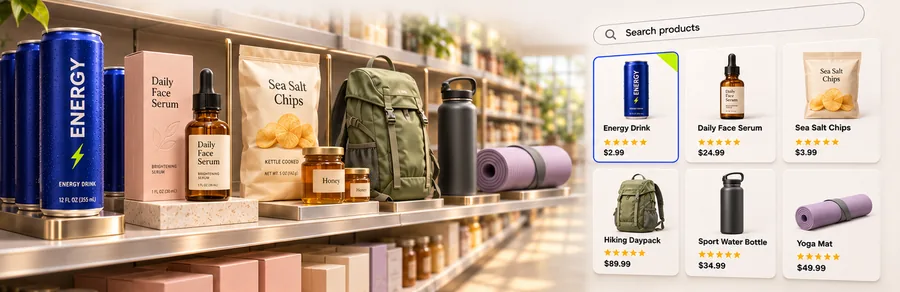
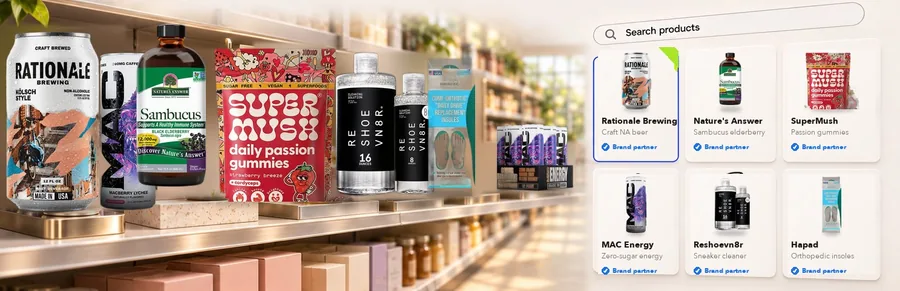
Hero: feature real brand partner products on the shelf and in the search grid

diff --git a/index.html b/index.html
@@ -154,7 +154,7 @@ fbq('track', 'PageView');
     </div>
     <!-- SHELF SCENE -->
     <figure class="hero-scene reveal-up" aria-hidden="false">
-      <picture><source type="image/webp" srcset="assets/img/hero/shelf-scene-900.webp 900w, assets/img/hero/shelf-scene.webp 1487w" sizes="100vw"><img src="assets/img/hero/shelf-scene.jpg" alt="Products on a store shelf next to the same products in an online search results grid" width="1487" height="482" fetchpriority="high" decoding="async"></picture>
+      <picture><source type="image/webp" srcset="assets/img/hero/shelf-scene-900.webp 900w, assets/img/hero/shelf-scene.webp 1487w" sizes="100vw"><img src="assets/img/hero/shelf-scene.jpg" alt="Flagship brand partner products (Rationale Brewing, MAC Energy, Nature's Answer, SuperMush, Reshoevn8r, Hapad) on a store shelf next to the same products in an online search results grid" width="1487" height="482" fetchpriority="high" decoding="async"></picture>
     </figure>
 
     <!-- CASE STUDY CAROUSEL -->
